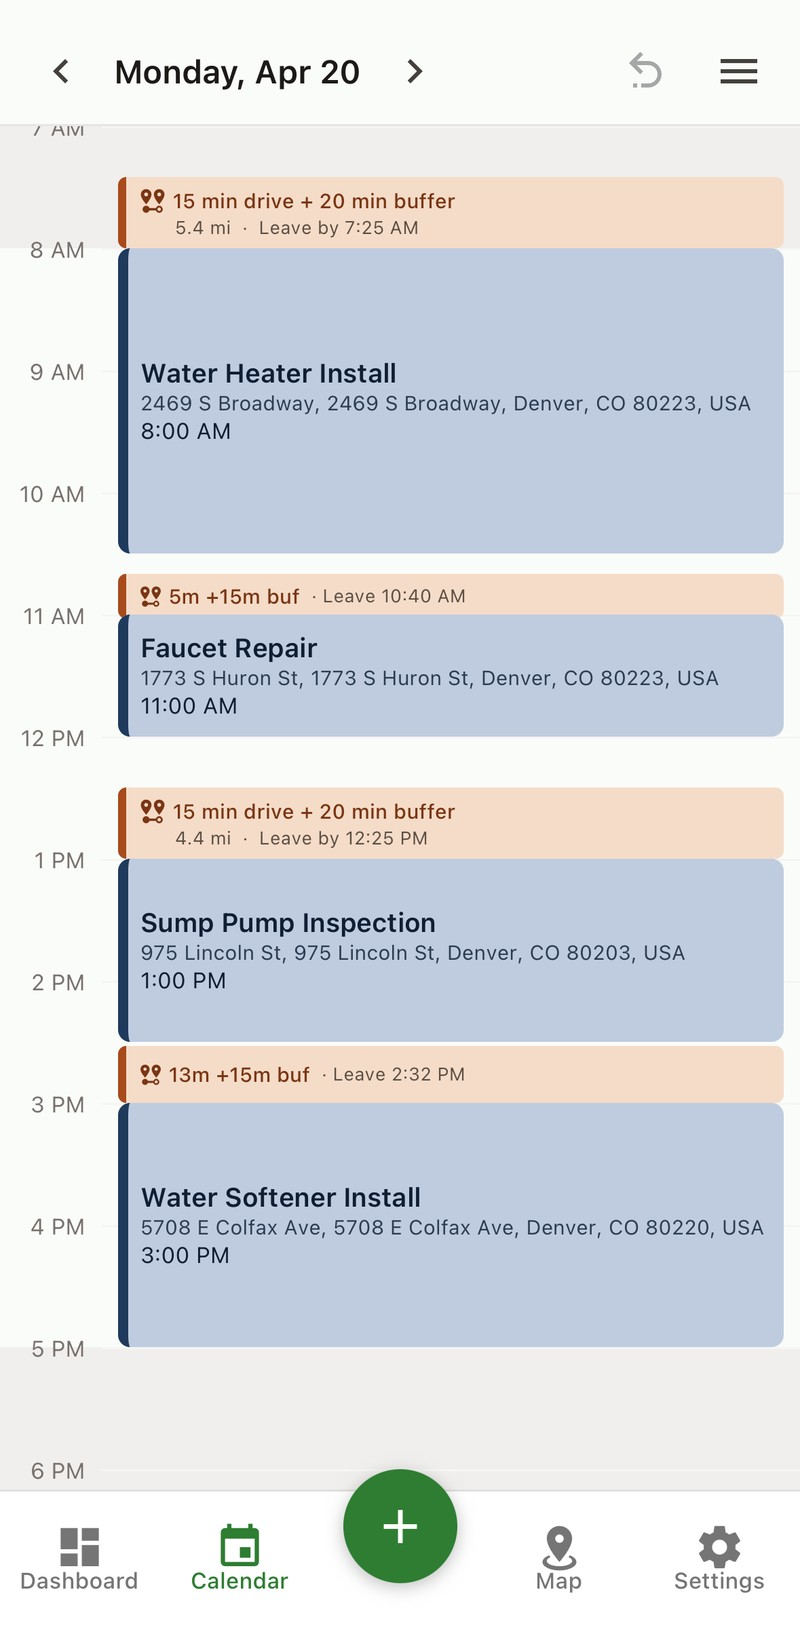
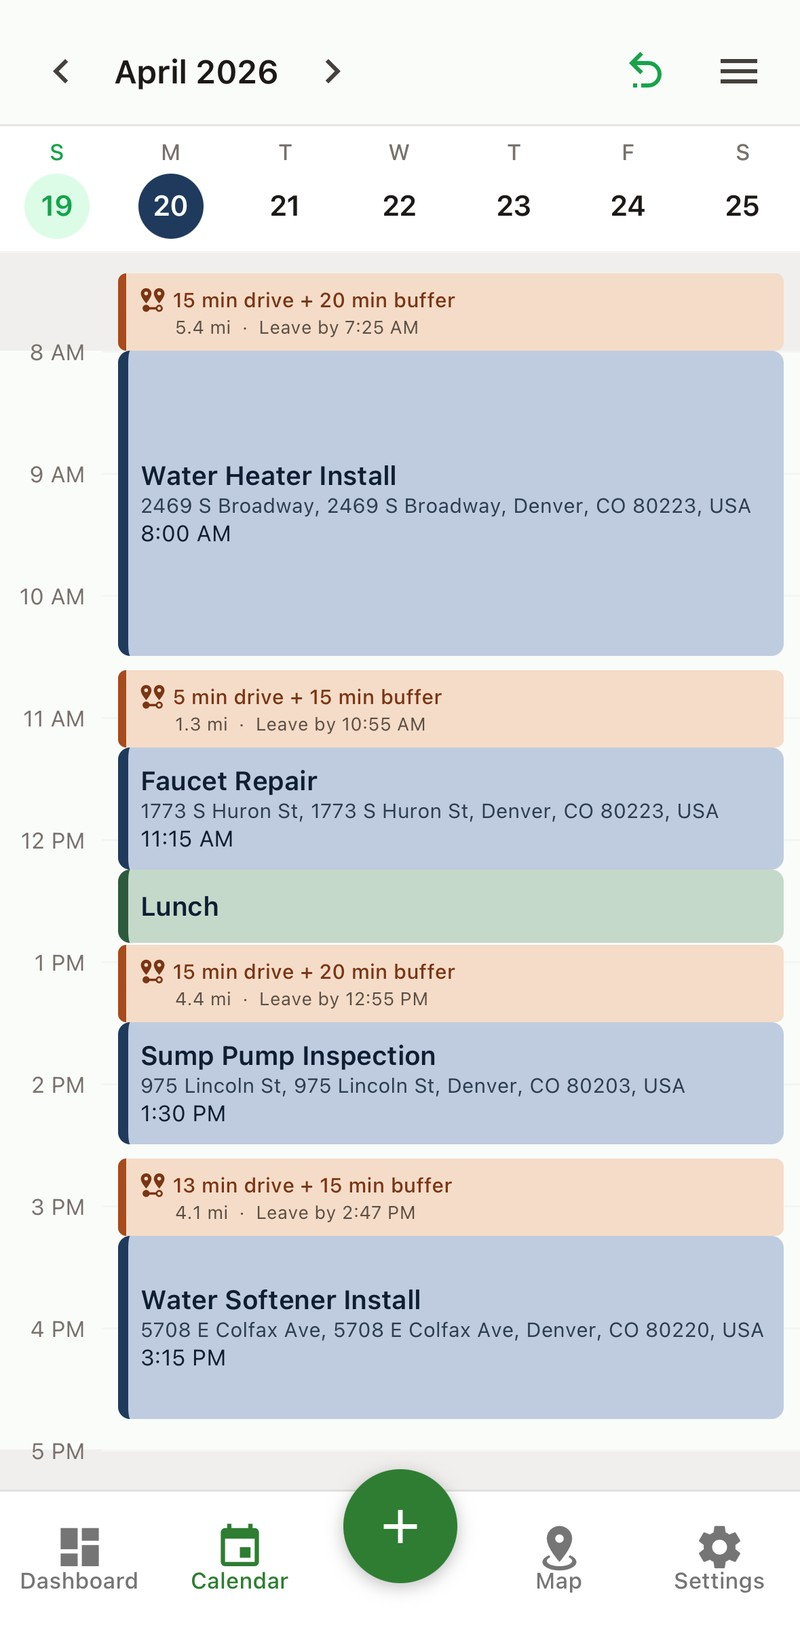
Add files via upload

diff --git a/index.html b/index.html
@@ -1015,7 +1015,7 @@
                     <img src="dashboard-app.jpg" alt="CalenJob dashboard showing jobs, miles, commute time, and route map for a day in Denver" loading="lazy">
                 </div>
                 <div class="phone-frame">
-                    <img src="calendar-app.jpg" alt="CalenJob calendar view showing water heater install, faucet repair, sump pump inspection, and water softener install with drive time blocks between them" loading="lazy">
+                    <img src="calendar-app.jpg" alt="CalenJob calendar view for April 20, 2026, showing a full day of contractor jobs — water heater install, faucet repair, sump pump inspection, water softener install — with drive time blocks between each stop showing mileage, buffer time, and leave-by notifications, plus a lunch block" loading="lazy">
                 </div>
             </div>
         </div>
